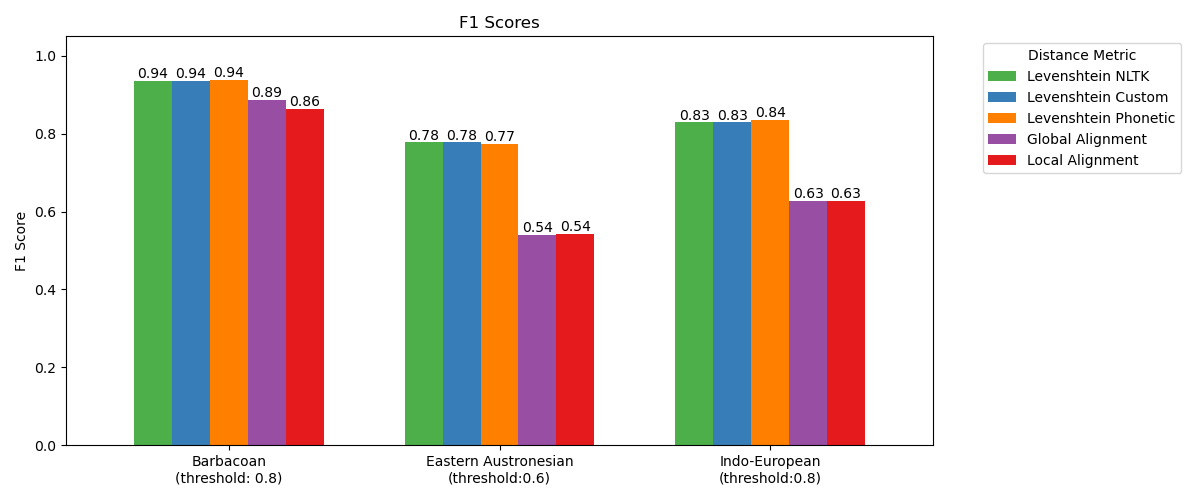
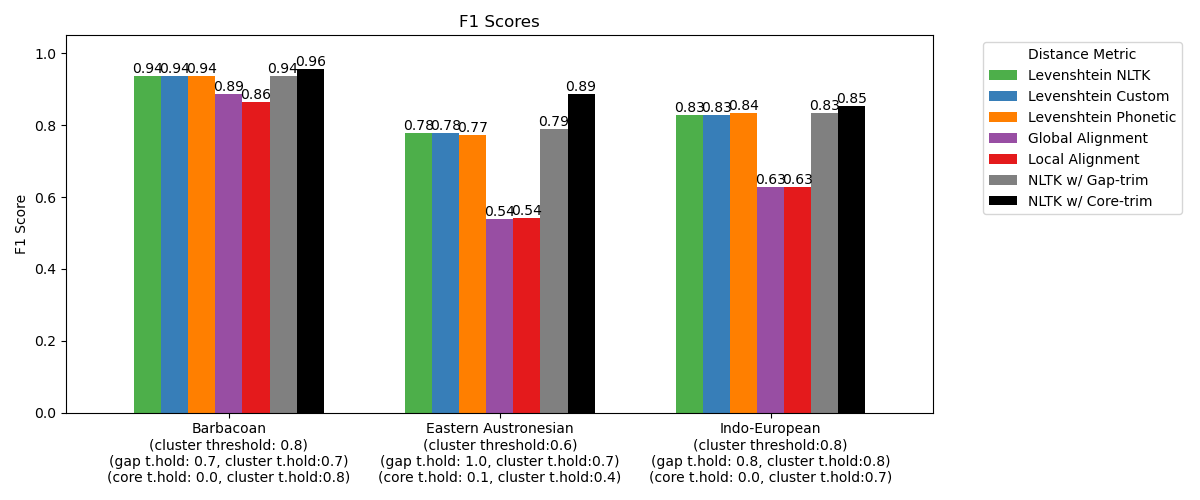
updated plots

diff --git a/plot_all_metrics.py b/plot_all_metrics.py
@@ -4,6 +4,8 @@ import matplotlib.pyplot as plt
 from clustering import Clustering
 from read_tab_files import TabFileReader
 
+from trimming import trim_all
+
 barb_cognacy = TabFileReader.tab_reader(
     "chl2024_barbacoandata/chl2023_barbacoan_cognacy.tab"
 )
@@ -29,6 +31,7 @@ form_data = {
     "ie": (ie_forms, ie_cognacy),
 }
 
+
 ## Add new metric #TODO
 distance_metrics = [
     "levenshtein_nltk",
@@ -44,10 +47,25 @@ optimal_thresholds = {
     "ie": 0.8,
 }
 
+optimal_trim_thresholds = {
+    "barb": {"core": (0.0,0.8),
+             "gap": (0.7,0.7)},
+    "eau": {"core": (0.1,0.4),
+            "gap": (1.0,0.7)},
+    "ie": {"core": (0.0,0.7),
+           "gap": (0.8,0.8)},
+}
 
 precision_df = pd.DataFrame(columns=distance_metrics, index=form_data.keys())
 recall_df = pd.DataFrame(columns=distance_metrics, index=form_data.keys())
 f1_df = pd.DataFrame(columns=distance_metrics, index=form_data.keys())
+
+core_prec = []
+core_recall = []
+core_f1 = []
+gap_prec = []
+gap_recall = []
+gap_f1 = []
 
 for form_name, (forms, cognacy) in form_data.items():
     for distance_metric in distance_metrics:
@@ -64,6 +82,49 @@ for form_name, (forms, cognacy) in form_data.items():
         precision_df.loc[form_name, distance_metric] = precision
         recall_df.loc[form_name, distance_metric] = recall
         f1_df.loc[form_name, distance_metric] = f1
+        
+    #gap-oriented
+    gap_form = trim_all(
+        forms,
+        threshold=optimal_trim_thresholds[form_name]["gap"][0],
+        strategy='gap-oriented'
+    )
+    
+    clusters = Clustering(
+        gap_form,
+        cognacy,
+        threshold=optimal_trim_thresholds[form_name]["gap"][1],
+    )
+
+    precision, recall, f1 = clusters.score()
+    gap_prec.append(precision)
+    gap_recall.append(recall)
+    gap_f1.append(f1)
+    
+    #core-oriented
+    core_form = trim_all(
+        forms,
+        threshold=optimal_trim_thresholds[form_name]["core"][0]
+    )
+    clusters = Clustering(
+        core_form,
+        cognacy,
+        threshold=optimal_trim_thresholds[form_name]["core"][1],
+    )
+
+    precision, recall, f1 = clusters.score()
+    core_prec.append(precision)
+    core_recall.append(recall)
+    core_f1.append(f1)
+    
+precision_df["gap_trim"] = gap_prec
+precision_df["core_trim"] = core_prec
+
+recall_df["gap_trim"] = gap_recall
+recall_df["core_trim"] = core_recall
+
+f1_df["gap_trim"] = gap_f1
+f1_df["core_trim"] = core_f1
 
 ## Add new label #TODO
 legend_labels = [
@@ -72,16 +133,18 @@ legend_labels = [
     "Levenshtein Phonetic",
     "Global Alignment",
     "Local Alignment",
+    "NLTK w/ Gap-trim",
+    "NLTK w/ Core-trim"
 ]
 
 x_labels = [
-    "Barbacoan\n(threshold: 0.8)",
-    "Eastern Austronesian\n(threshold:0.6)",
-    "Indo-European\n(threshold:0.8)",
+    "Barbacoan\n(cluster threshold: 0.8)\n(gap t.hold: 0.7, cluster t.hold:0.7)\n(core t.hold: 0.0, cluster t.hold:0.8)",
+    "Eastern Austronesian\n(cluster threshold:0.6)\n(gap t.hold: 1.0, cluster t.hold:0.7)\n(core t.hold: 0.1, cluster t.hold:0.4)",
+    "Indo-European\n(cluster threshold:0.8)\n(gap t.hold: 0.8, cluster t.hold:0.8)\n(core t.hold: 0.0, cluster t.hold:0.7)",
 ]
 
 ## Add any new color #TODO
-color_palette = ["#4daf4a", "#377eb8", "#ff7f00", "#984ea3", "#e41a1c"]
+color_palette = ["#4daf4a", "#377eb8", "#ff7f00", "#984ea3", "#e41a1c", "0.5", "0"]
 
 ax = precision_df.plot(kind="bar", figsize=(12, 5), width=0.7, color=color_palette)
 plt.title("Precision Scores")
